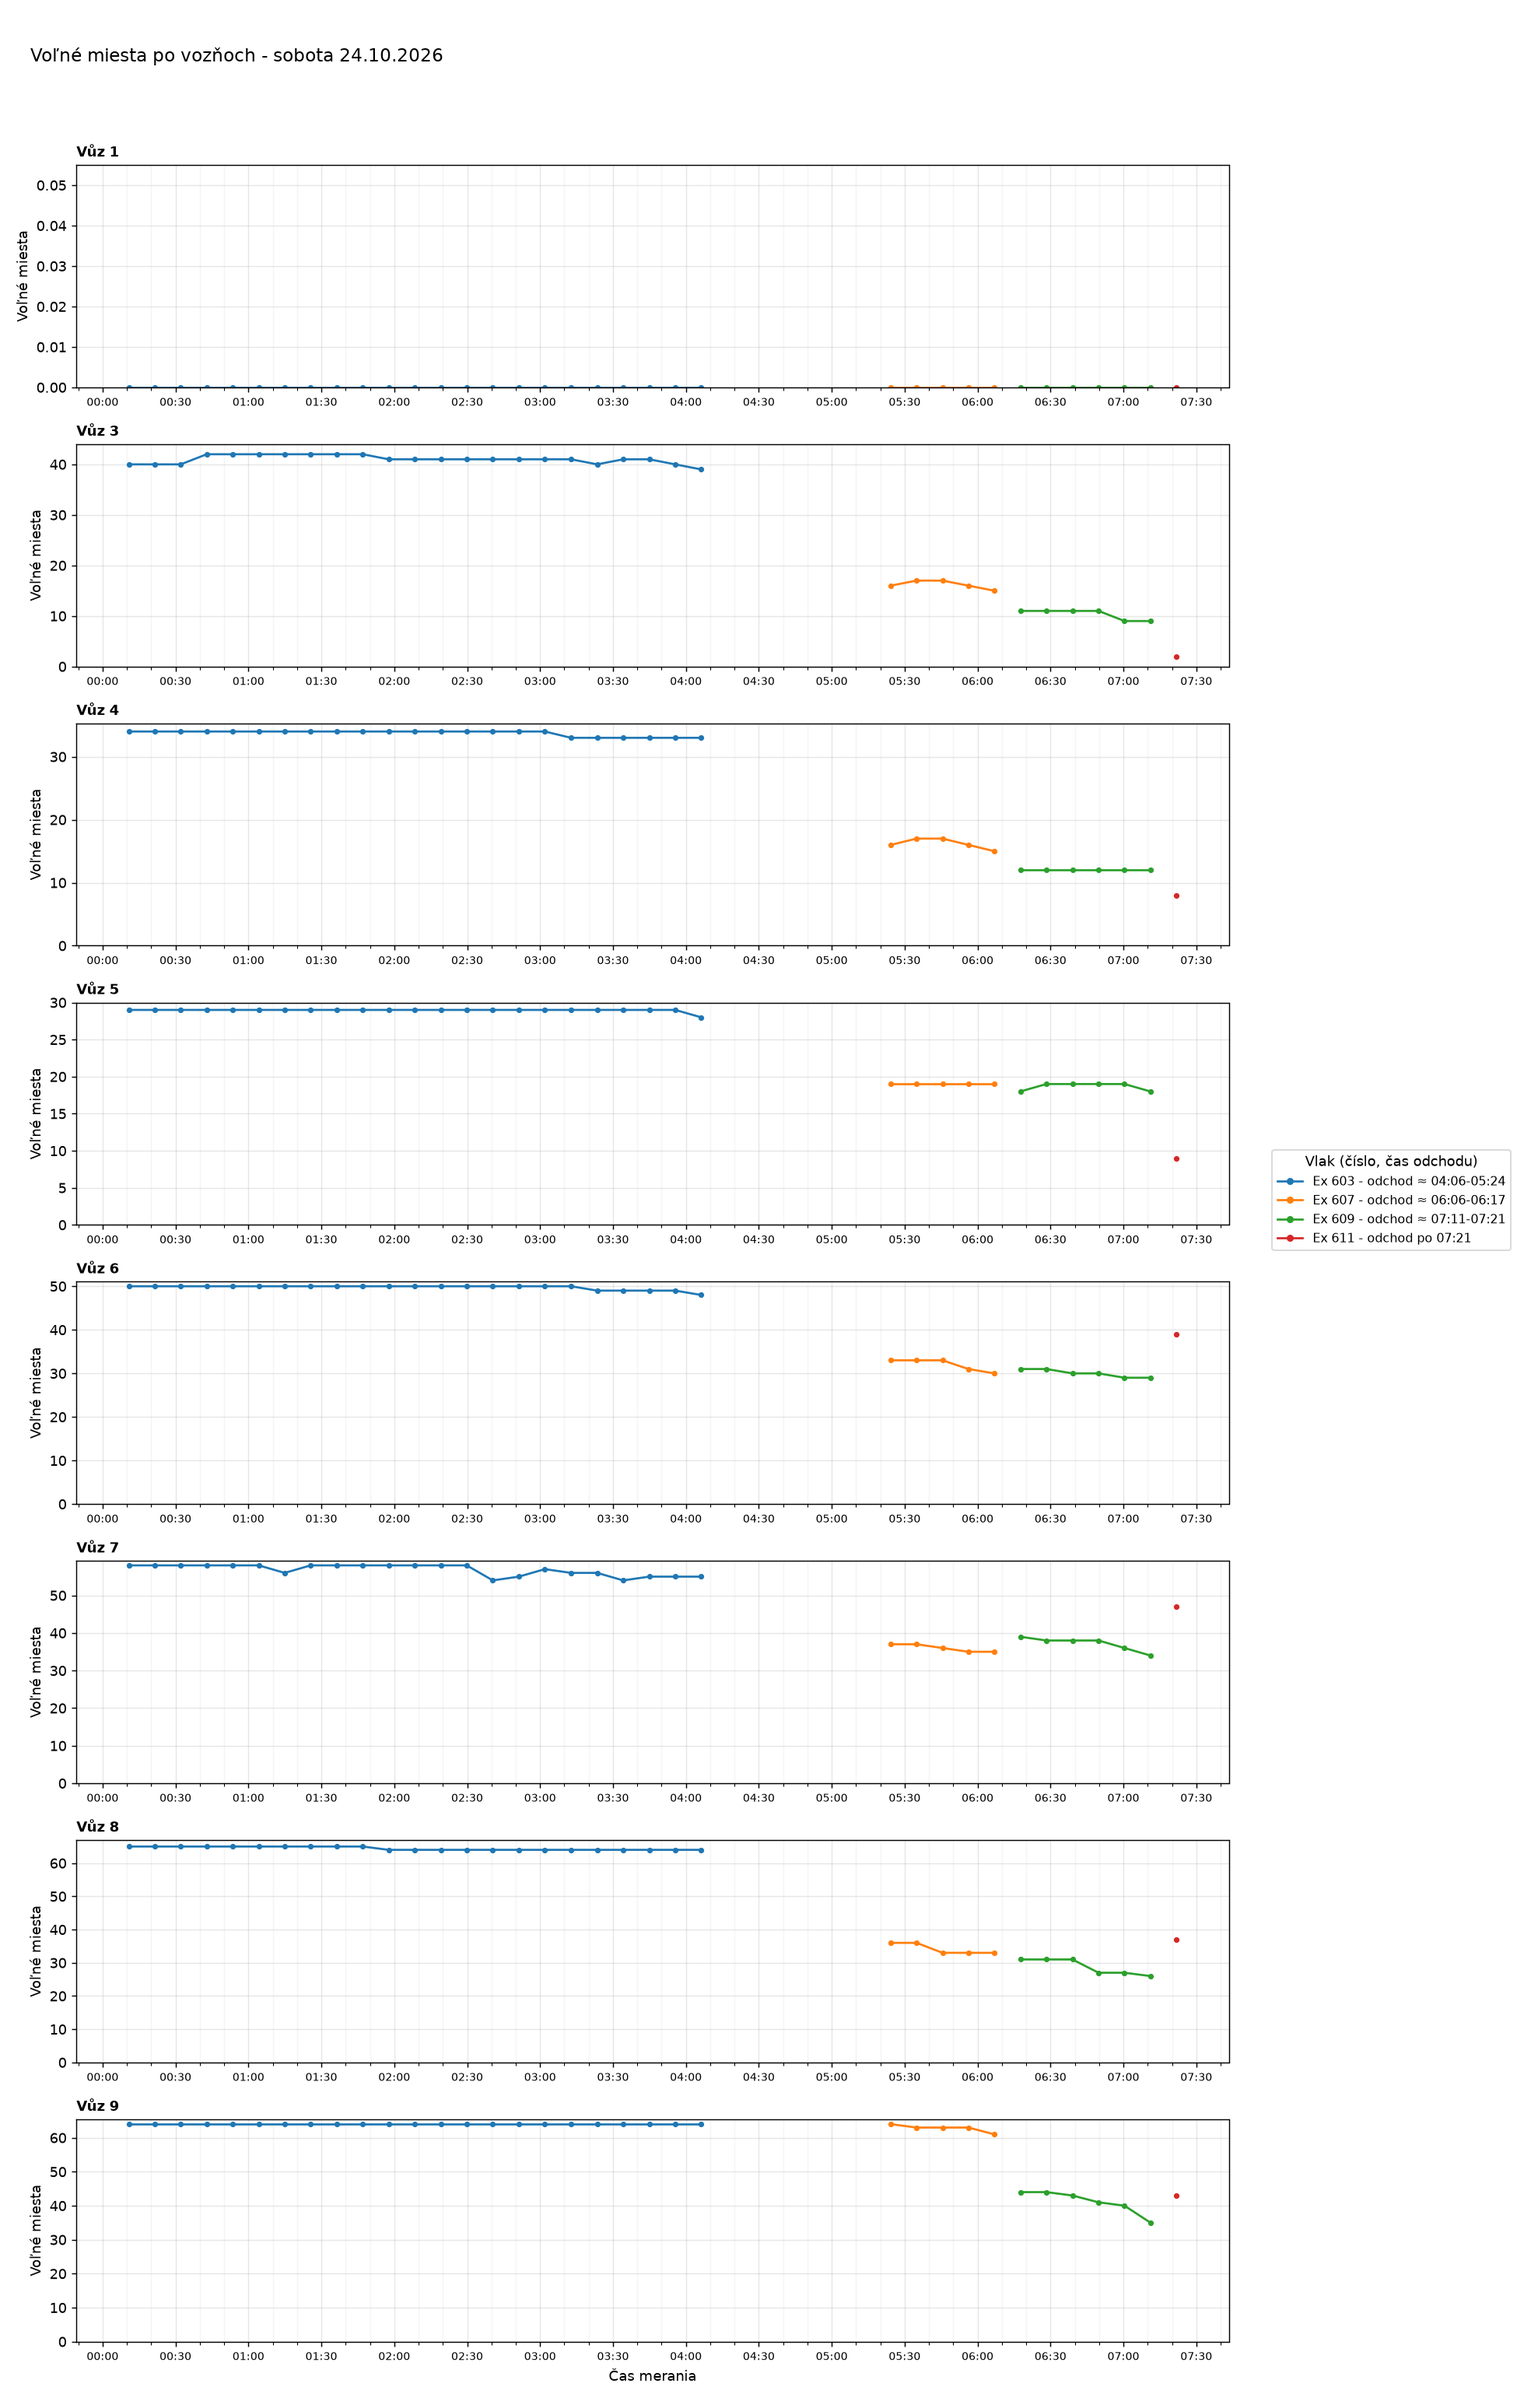
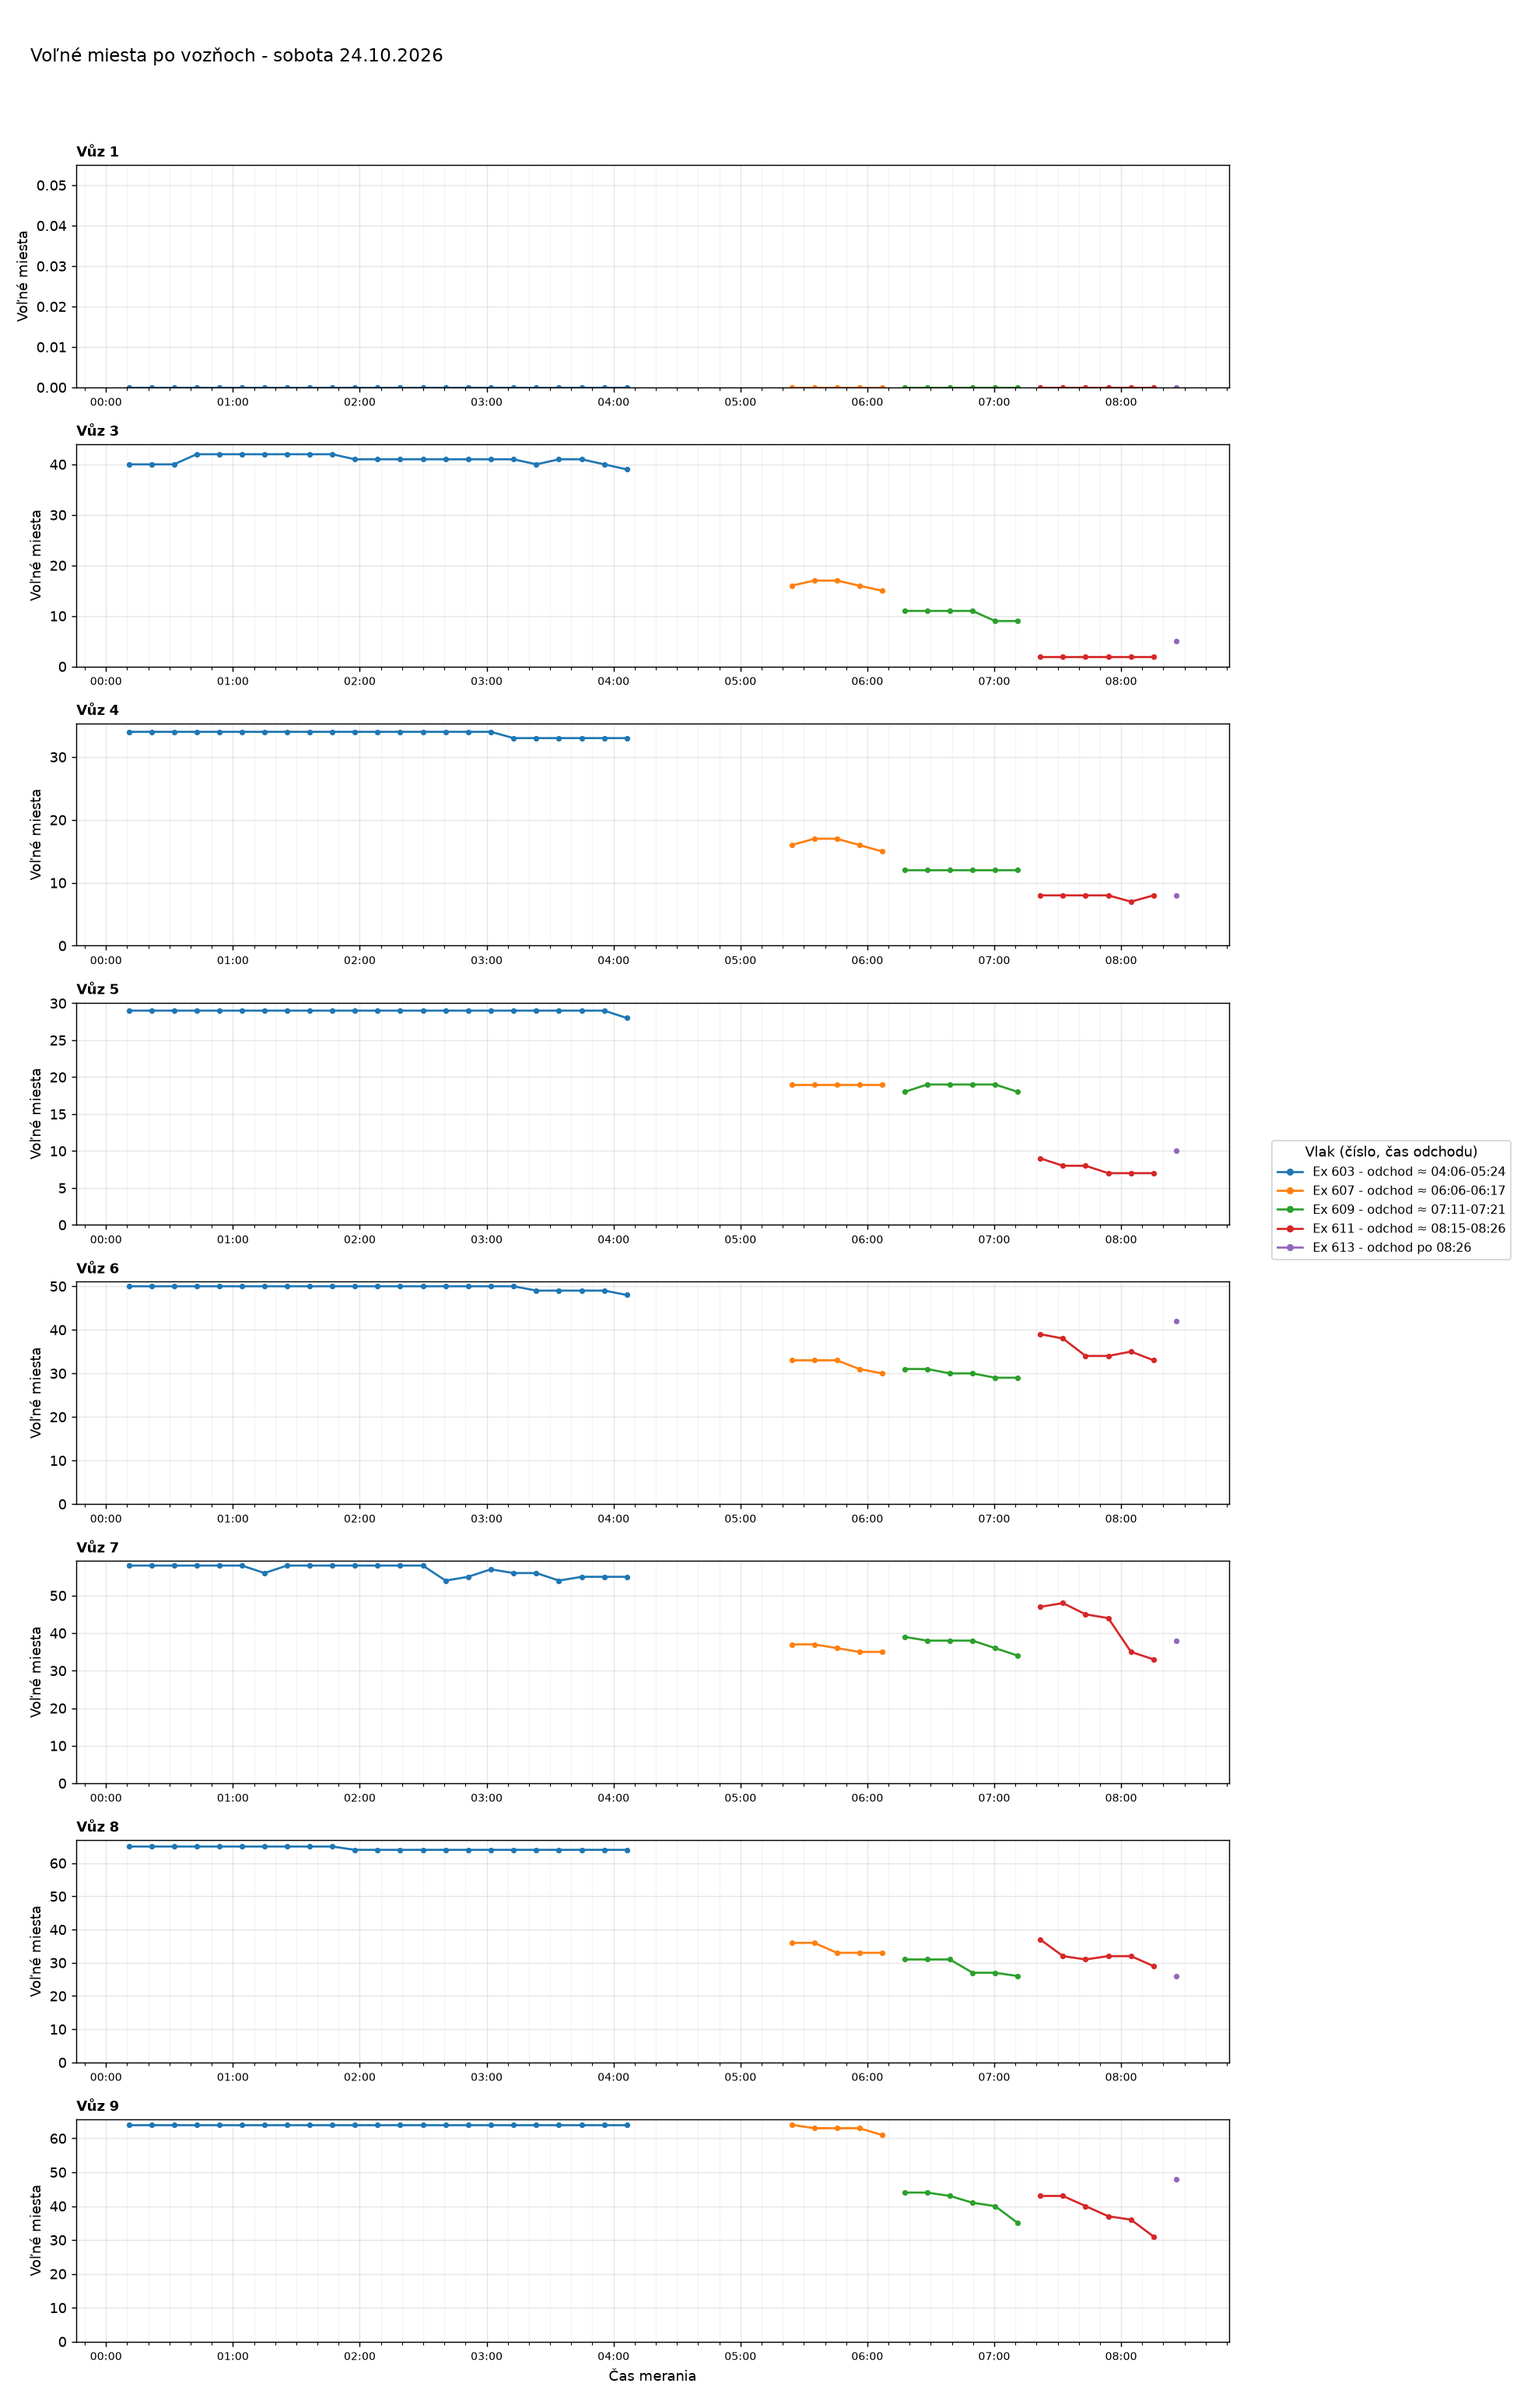
Aktualizácia grafov 2026-10-24 08:26

Changed region(s): [[0.8308, 0.4666, 1.0, 0.5288], [0.3385, 0.28, 0.3692, 0.3111], [0.2154, 0.7466, 0.2462, 0.7777]]

diff --git a/index.html b/index.html
@@ -35,7 +35,7 @@ h2.oddiel{margin:36px 0 0;font-size:1.4rem}
 <body>
 <main>
 <h1>Voľné miesta vo vlakoch</h1>
-<p class="muted">Posledné meranie: 24.10.2026 07:21 ·
+<p class="muted">Posledné meranie: 24.10.2026 08:26 ·
 <a href="data/obsadenost_data.csv">stiahnuť dáta (CSV)</a></p>
 <nav class="nav"><a href="#suhrn">Súhrn</a><a href="#statistiky">Štatistiky</a><a href="#historia">História grafov</a></nav>
 
@@ -44,7 +44,7 @@ h2.oddiel{margin:36px 0 0;font-size:1.4rem}
 <div class="tablewrap"><table>
 <thead><tr><th>Deň</th><th>Meraní</th><th>Vlakov</th><th>Čas meraní</th></tr></thead>
 <tbody>
-<tr><td><a href="#d2026-10-24">sobota 24.10.2026</a></td><td>35</td><td>4</td><td>00:10-07:21</td></tr>
+<tr><td><a href="#d2026-10-24">sobota 24.10.2026</a></td><td>41</td><td>5</td><td>00:10-08:26</td></tr>
 <tr><td><a href="#d2026-10-23">piatok 23.10.2026</a></td><td>64</td><td>13</td><td>07:25-23:49</td></tr>
 <tr><td><a href="#d2026-10-22">štvrtok 22.10.2026</a></td><td>80</td><td>11</td><td>00:08-16:10</td></tr>
 <tr><td><a href="#d2026-10-21">streda 21.10.2026</a></td><td>96</td><td>15</td><td>00:10-23:58</td></tr>
